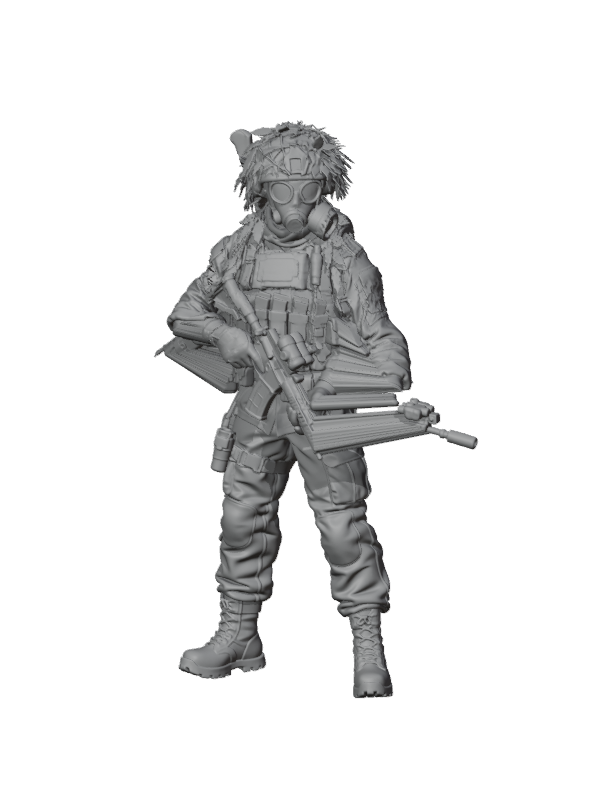
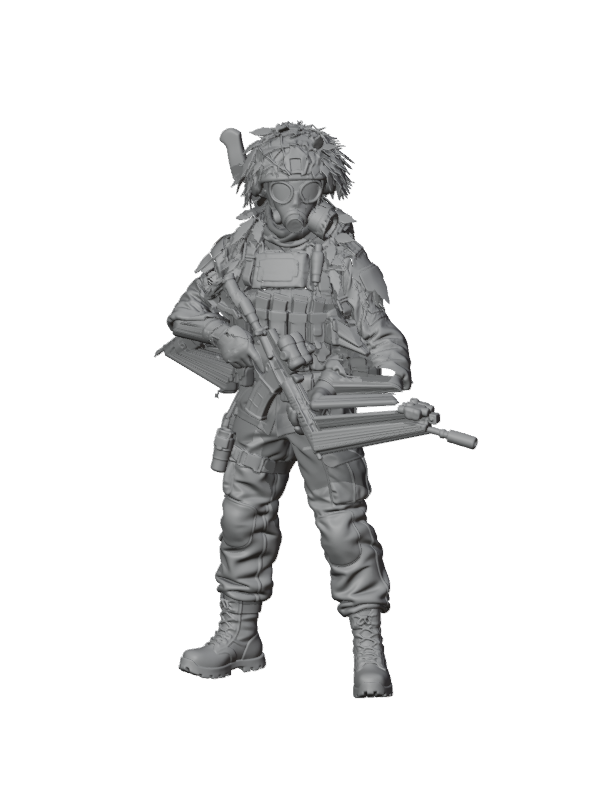
Bind disconnected Assault detail islands more stably

diff --git a/tools/enemy_assault/rig_enemy_assault.py b/tools/enemy_assault/rig_enemy_assault.py
@@ -20,7 +20,15 @@ bpy.ops.import_scene.gltf(filepath=SRC_ENEMY)
 enemy_meshes=[o for o in bpy.context.scene.objects if o.type=='MESH']
 if len(enemy_meshes)!=1: raise RuntimeError(f'Expected one enemy mesh, got {len(enemy_meshes)}')
 enemy=enemy_meshes[0]
+# Meshy exports this body as thousands of disconnected surface islands inside one object.
+# Split them temporarily so small hard-surface equipment islands can receive one stable bone influence.
+bpy.context.view_layer.objects.active=enemy; enemy.select_set(True)
+bpy.ops.object.mode_set(mode='EDIT'); bpy.ops.mesh.select_all(action='SELECT'); bpy.ops.mesh.separate(type='LOOSE'); bpy.ops.object.mode_set(mode='OBJECT')
+enemy_parts=[o for o in bpy.context.scene.objects if o.type=='MESH' and o.name.startswith('Mesh_0')]
+if len(enemy_parts)<2: raise RuntimeError('Expected disconnected Meshy body islands for component-aware binding')
+enemy=max(enemy_parts,key=lambda o:len(o.data.vertices)); enemy.name='Mesh_0'
 # Preserve enemy object geometry/materials as imported. Keep an untouched copy of mesh data in memory.
+bpy.ops.object.select_all(action='DESELECT')
 bpy.ops.import_scene.gltf(filepath=SRC_PLAYER)
 player_arm=next((o for o in bpy.context.scene.objects if o.type=='ARMATURE' and len(o.data.bones)==28),None)
 player_mesh=next((o for o in bpy.context.scene.objects if o.type=='MESH' and len(o.data.vertices)>10000 and len(o.vertex_groups)>=28),None)
@@ -29,14 +37,14 @@ if len(player_arm.data.bones)!=28: raise RuntimeError('Unexpected rig bone count
 # Reuse only armature data; hide and remove all visible player geometry and its scene nodes.
 arm_data=player_arm.data.copy(); arm_data.name='Assault_Mixamo28'
 for ob in list(bpy.context.scene.objects):
-    if ob is not enemy and ob is not player_mesh:
+    if ob not in enemy_parts and ob is not player_mesh:
         bpy.data.objects.remove(ob,do_unlink=True)
 player_mesh.hide_viewport=True; player_mesh.hide_render=True
 arm=bpy.data.objects.new('target_character',arm_data); bpy.context.collection.objects.link(arm)
 # Build a KD tree from the player skin, with coordinates remapped to the enemy dimensions.
 # The source skeleton spans Z=0..1.70m. Enemy feet/head span approximately -0.95..0.95m.
 verts=player_mesh.data.vertices
-bounds=[(min(v.co[i] for v in enemy.data.vertices),max(v.co[i] for v in enemy.data.vertices)) for i in range(3)]
+bounds=[(min(v.co[i] for part in enemy_parts for v in part.data.vertices),max(v.co[i] for part in enemy_parts for v in part.data.vertices)) for i in range(3)]
 e_lo=Vector([pair[0] for pair in bounds]); e_hi=Vector([pair[1] for pair in bounds])
 p_bounds=[(min(v.co[i] for v in verts),max(v.co[i] for v in verts)) for i in range(3)]
 # Fit proxy axes to source body bounds, and map enemy ground to player ground.
@@ -54,24 +62,47 @@ valid={b.name for b in arm.data.bones}
 source_groups={g.name:g.index for g in player_mesh.vertex_groups if g.name in valid}
 group_names=list(source_groups)
 if len(group_names)<20: raise RuntimeError(f'Only {len(group_names)} matching bone groups found')
-groups={n:enemy.vertex_groups.new(name=n) for n in group_names}
-# Nearest-surface transfer: cache source vertex influences once, then bulk-assign by bone.
+groups_by_part={part:{n:part.vertex_groups.new(name=n) for n in group_names} for part in enemy_parts}
+# Cache player influences, then transfer smooth weights on large body surfaces. Assign each small
+# disconnected detail island rigidly to its dominant nearest source influence to avoid cross-bone spikes.
 idx_to_name={g.index:g.name for g in player_mesh.vertex_groups if g.name in valid}
 source_weights=[]
 for sv in verts:
     source_weights.append([(idx_to_name[g.group],g.weight) for g in sv.groups if g.group in idx_to_name and g.weight>0.001])
-assigned={name:[[] for _ in range(33)] for name in group_names}
-for vi,v in enumerate(enemy.data.vertices):
-    _co,idx,_dist=tree.find(proxy(v))
-    ws=source_weights[idx]
-    total=sum(w for _,w in ws)
-    if total<=0: continue
-    for name,w in ws:
-        qw=max(1,min(32,round(w/total*32)))
-        assigned[name][qw].append(vi)
-for name,bins in assigned.items():
-    for qw,indices in enumerate(bins):
-        if indices: groups[name].add(indices,qw/32.0,'REPLACE')
+smooth_vertices=0
+rigid_islands=0
+for part in enemy_parts:
+    verts_part=part.data.vertices
+    center=Vector([sum(v.co[i] for v in verts_part)/len(verts_part) for i in range(3)])
+    _co,center_idx,_dist=tree.find(proxy(type('V',(),{'co':center})()))
+    center_weights=source_weights[center_idx]
+
+    if len(verts_part) < 1600:
+        if center_weights:
+            dominant=max(center_weights,key=lambda x:x[1])[0]
+            groups_by_part[part][dominant].add(list(range(len(verts_part))),1.0,'REPLACE')
+        rigid_islands+=1
+        continue
+    assigned={name:[[] for _ in range(33)] for name in group_names}
+    for vi,v in enumerate(verts_part):
+        _co,idx,_dist=tree.find(proxy(v))
+        ws=source_weights[idx]
+        total=sum(w for _,w in ws)
+        if total<=0: continue
+        for name,w in ws:
+            qw=max(1,min(32,round(w/total*32)))
+            assigned[name][qw].append(vi)
+    for name,bins in assigned.items():
+        for qw,indices in enumerate(bins):
+            if indices: groups_by_part[part][name].add(indices,qw/32.0,'REPLACE')
+    smooth_vertices+=len(verts_part)
+# Join all original islands back into one draw surface; vertex groups with matching names merge.
+bpy.ops.object.select_all(action='DESELECT')
+for part in enemy_parts: part.select_set(True)
+bpy.context.view_layer.objects.active=enemy
+bpy.ops.object.join()
+enemy=bpy.context.view_layer.objects.active
+enemy.name='Assault_Body_Meshy'
 # Attach original enemy mesh to the copied rig; no player mesh/materials are included.
 mod=enemy.modifiers.new('Assault_28Bone_Skin','ARMATURE'); mod.object=arm; mod.use_vertex_groups=True
 enemy.parent=arm
@@ -84,6 +115,6 @@ bpy.ops.object.select_all(action='DESELECT'); arm.select_set(True); enemy.select
 os.makedirs(os.path.dirname(OUT),exist_ok=True)
 bpy.ops.export_scene.gltf(filepath=OUT,export_format='GLB',use_selection=True,export_apply=False,export_animations=False,export_skins=True,export_materials='EXPORT',export_image_format='AUTO')
 # Blender-side validation and machine-readable report.
-report={'source':SRC_ENEMY,'player_rig_source':SRC_PLAYER,'output':OUT,'bones':len(arm.data.bones),'bone_names':[b.name for b in arm.data.bones],'mesh_vertices':len(enemy.data.vertices),'mesh_triangles':sum(len(p.vertices)-2 for p in enemy.data.polygons),'vertex_groups':len(enemy.vertex_groups),'weight_vertices':sum(1 for v in enemy.data.vertices if v.groups),'textures':[{'name':im.name,'size':list(im.size)} for im in bpy.data.images if im.source=='FILE'],'enemy_bounds':[[float(x) for x in pair] for pair in bounds],'proxy_scales':[float(x) for x in scales]}
+report={'source':SRC_ENEMY,'player_rig_source':SRC_PLAYER,'output':OUT,'bones':len(arm.data.bones),'bone_names':[b.name for b in arm.data.bones],'mesh_vertices':len(enemy.data.vertices),'mesh_triangles':sum(len(p.vertices)-2 for p in enemy.data.polygons),'vertex_groups':len(enemy.vertex_groups),'weight_vertices':sum(1 for v in enemy.data.vertices if v.groups),'textures':[{'name':im.name,'size':list(im.size)} for im in bpy.data.images if im.source=='FILE'],'enemy_bounds':[[float(x) for x in pair] for pair in bounds],'proxy_scales':[float(x) for x in scales],'source_islands':len(enemy_parts),'rigid_islands':rigid_islands,'smooth_weight_vertices':smooth_vertices}
 with open(os.path.splitext(OUT)[0]+'.json','w') as f: json.dump(report,f,indent=2)
 print('ASSAULT_RIG_REPORT='+json.dumps(report))

diff --git a/source_assets/enemy_assault/rig_test/rigging_test_report.md b/source_assets/enemy_assault/rig_test/rigging_test_report.md
@@ -8,15 +8,15 @@ Status: rigged test GLB exported and imported by Godot; this is **not yet animat
[1 lines of base64/hex data omitted]
 - Rig source: `assets/meshy_jungle_commando.glb`
 - Output: `source_assets/enemy_assault/rig_test/enemy_assault_rigged_test.glb`
-- Output size: 164,784,064 bytes (HQ texture maps retained)
[1 lines of base64/hex data omitted]
+- Output size: 164,784,068 bytes (HQ texture maps retained)
[1 lines of base64/hex data omitted]
 
 ## Build and static checks
 
 - Blender 4.3.2 executed `tools/enemy_assault/rig_enemy_assault.py` successfully.
 - Original enemy mesh is retained: 1,861,582 vertices / 3,454,896 triangles.
 - One enemy mesh, 28 named Mixamo bones, 28 vertex groups; all mesh vertices have skin weights.
-- Vertex weights were copied from the existing skinned player mesh by nearest spatial proxy sample, normalized and quantized in 1/32 increments. The script never exports player geometry.
+- The source mesh has 2,926 disconnected surface islands. 2,694 small islands use one dominant source influence; larger islands use nearest spatial proxy weights, normalized and quantized in 1/32 increments (726,610 vertices). The islands are joined before export. The script never exports player geometry.
 - Enemy body was foot-aligned to the Mixamo armature (source body centered at Z=0; body offset +0.952 m).
 - Godot 4.6.3 headless resource check passed: one Skeleton3D, one MeshInstance3D with Skin, 28 bones. The skeleton node is named `target_character/Skeleton3D`, matching the existing animation track paths.
 - Blender warned that Draco compression is unavailable and that multiple shader image nodes reference texture slots. Export succeeded; Draco compression was not required.
@@ -38,4 +38,4 @@ godot --headless --path . --script res://tools/enemy_assault/test_animation_clip
 
 ## Current gameplay handoff
 
-The rig test remains outside the gameplay scene. It is 164,784,064 bytes and has not been optimized for mobile. The current isolated test confirms clip tracks and bone movement only; weapon/muzzle alignment, enemy firing, hit/death visuals, AI behavior, and wave spawn are not yet integrated or validated.
+The rig test remains outside the gameplay scene. It is 164,784,068 bytes and has not been optimized for mobile. The current isolated test confirms clip tracks and bone movement only; weapon/muzzle alignment, enemy firing, hit/death visuals, AI behavior, and wave spawn are not yet integrated or validated.
